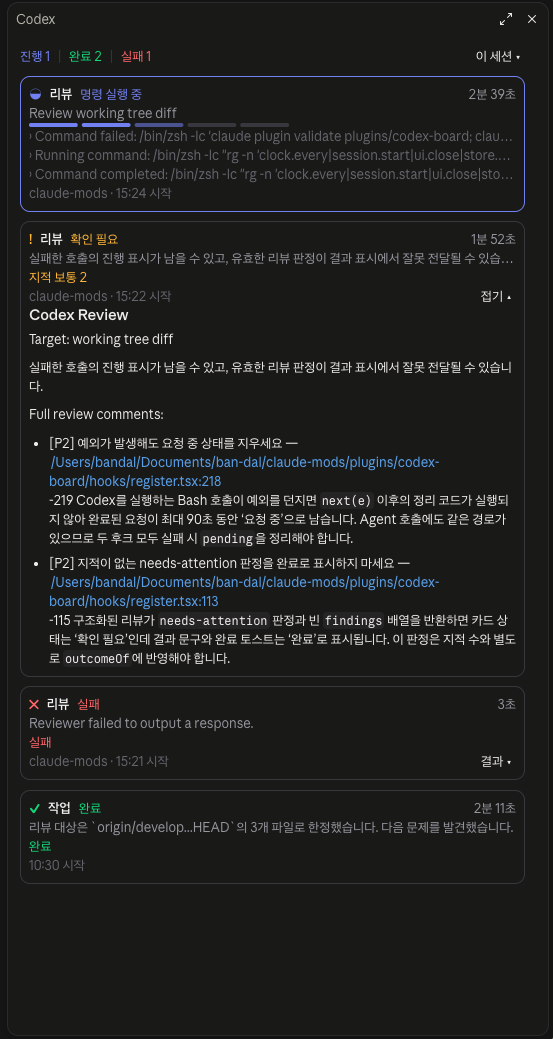
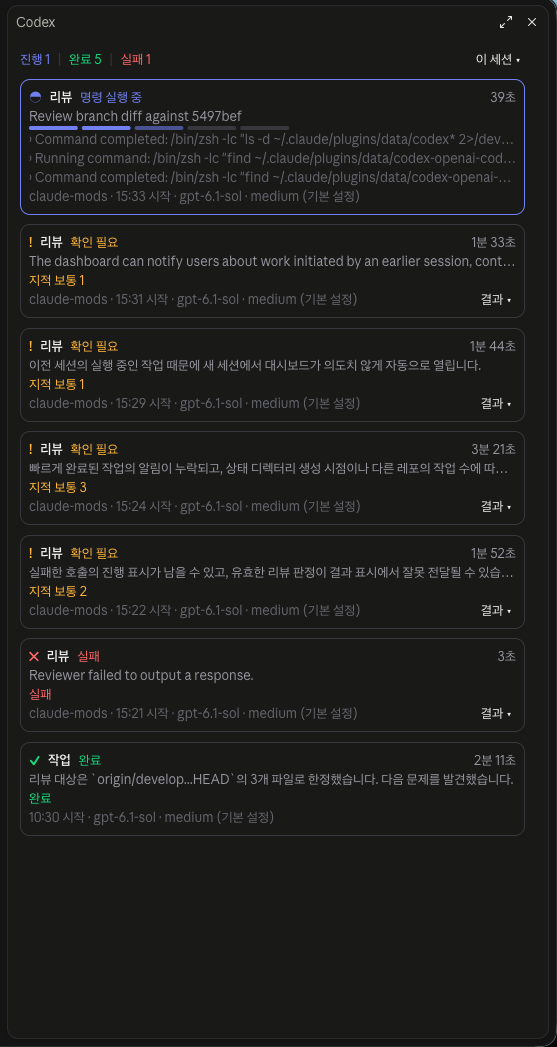
fix(codex-board): 다른 세션 작업 알림 제외, 결과 파일 재시도

diff --git a/plugins/codex-board/hooks/register.test.tsx b/plugins/codex-board/hooks/register.test.tsx
@@ -119,6 +119,7 @@ describe('codex-board', () => {
       recommendation: '-',
     })
     const stored = {
+      status: 'completed',
       result: {
         review: 'Adversarial Review',
         result: { verdict: 'needs-attention', summary: '-', findings: [finding('high', '경합 조건', 12), finding('medium', '누락된 검사', 40), finding('medium', '중복', 41)] },
@@ -212,6 +213,33 @@ describe('codex-board', () => {
     expect(await ui.find({ type: 'Text', text: /gpt-6\.1-sol · medium \(기본 설정\)$/ })).toBeTruthy()
   })
 
+  test('같은 레포에서 다른 세션이 새로 시작한 작업으로는 패널을 열거나 토스트를 띄우지 않는다', async ($, on) => {
+    const files: Files = { [`${APP}/state.json`]: state() }
+    const { opened, toasts, clock } = setup(on, files)
+    await start($)
+
+    files[`${APP}/state.json`] = state(job({ sessionId: 'S2', createdAt: iso(1_000), startedAt: iso(1_000) }))
+    await clock.advance(10_000)
+    files[`${APP}/state.json`] = state(job({ sessionId: 'S2', createdAt: iso(1_000), status: 'completed', phase: 'done', updatedAt: iso(12_000), completedAt: iso(12_000) }))
+    await clock.advance(10_000)
+
+    expect(opened).toEqual([])
+    expect(toasts).toEqual([])
+  })
+
+  test('끝난 작업의 결과 파일을 처음에 못 읽으면 다음 갱신 때 다시 읽어 판정을 표시한다', async ($, on) => {
+    const files: Files = { [`${APP}/state.json`]: state(job({ id: 'review-4', kind: 'adversarial-review', status: 'completed', phase: 'done' })) }
+    const { clock } = setup(on, files)
+    await start($)
+    const ui = await $.ui.mount({ plugin: 'codex-board', surface: 'terminal', ...PANE })
+    expect(await ui.find({ type: 'Text', text: '승인' })).toBeFalsy()
+
+    files[`${APP}/jobs/review-4.json`] = JSON.stringify({ status: 'completed', result: { result: { verdict: 'approve', summary: '-', findings: [] } } })
+    await clock.advance(10_000)
+
+    expect(await ui.find({ type: 'Text', text: '승인' })).toBeTruthy()
+  })
+
   test('범위가 "이 세션"이면 다른 세션·레포의 작업을 숨기고 "전체"로 바꾸면 표시한다', async ($, on) => {
     setup(on, {
       [`${APP}/state.json`]: state(job({ status: 'completed', phase: 'done' })),
@@ -258,7 +286,7 @@ describe('codex-board', () => {
   })
 
   test('지적 없이 needs-attention으로 끝난 리뷰는 결과 문구와 토스트를 "확인 필요"로 표시한다', async ($, on) => {
-    const stored = { result: { review: 'Adversarial Review', result: { verdict: 'needs-attention', summary: '-', findings: [] } } }
+    const stored = { status: 'completed', result: { review: 'Adversarial Review', result: { verdict: 'needs-attention', summary: '-', findings: [] } } }
     const files: Files = {
       [`${APP}/state.json`]: state(job({ id: 'review-3', kind: 'adversarial-review' })),
       [`${APP}/jobs/review-3.json`]: JSON.stringify(stored),

diff --git a/plugins/codex-board/hooks/register.tsx b/plugins/codex-board/hooks/register.tsx
@@ -133,7 +133,9 @@ async function loadDetails($: EngineInterface, list: Job[], current: Record<stri
   for (const job of list) {
     const known = current[job.id]
     const needsLog = isActive(job) || job.id === open
-    if (known !== undefined && known.updatedAt === job.updatedAt && !needsLog) {
+    // 끝난 작업은 결과를 읽을 때까지 다시 시도한다
+    const isSettled = isActive(job) || known?.isResultLoaded === true
+    if (known !== undefined && known.updatedAt === job.updatedAt && !needsLog && isSettled) {
       next[job.id] = known
       continue
     }
@@ -162,7 +164,9 @@ async function notify($: EngineInterface, before: Job[], after: Job[], loaded: R
   for (const job of after.filter(isMine)) {
     const old = previous.get(job.id)
     // 이전 세션에서 시작해 아직 도는 작업으로는 패널을 열지 않는다
-    const isStartedHere = job.sessionId === context.sessionId || Date.parse(job.createdAt) >= context.startedAt
+    // 세션 ID가 없는 작업만 시작 시각으로 판단한다
+    const isStartedHere =
+      job.sessionId !== undefined ? job.sessionId === context.sessionId : Date.parse(job.createdAt) >= context.startedAt
     if (isActive(job) && isStartedHere && (old === undefined || !isActive(old))) hasStarted = true
     // 두 번의 갱신 사이에 시작하고 끝난 작업도 알린다
     const hasFinishedSinceStart = old === undefined && Date.parse(job.completedAt ?? job.updatedAt) >= context.startedAt

diff --git a/plugins/codex-board/hooks/jobs.ts b/plugins/codex-board/hooks/jobs.ts
@@ -156,6 +156,7 @@ export function parseDetail(source: string | undefined, log: string | undefined,
     const parsed = (payload.result ?? {}) as Record<string, unknown>
     const codex = (payload.codex ?? {}) as Record<string, unknown>
 
+    detail.isResultLoaded = STATUSES.some(status => status === stored.status && status !== 'queued' && status !== 'running')
     detail.verdict = text(parsed.verdict)
     detail.findings = structuredFindings(parsed.findings)
     if (detail.findings === undefined && payload.review === 'Review') {

diff --git a/plugins/codex-board/types/index.d.ts b/plugins/codex-board/types/index.d.ts
@@ -31,6 +31,8 @@ export type JobDetail = {
   updatedAt: string
   logTail: string[]
   lastActivityAt?: string
+  // 끝난 작업의 작업 파일을 끝까지 읽었는지
+  isResultLoaded?: boolean
   verdict?: string
   findings?: Finding[]
   rendered?: string
